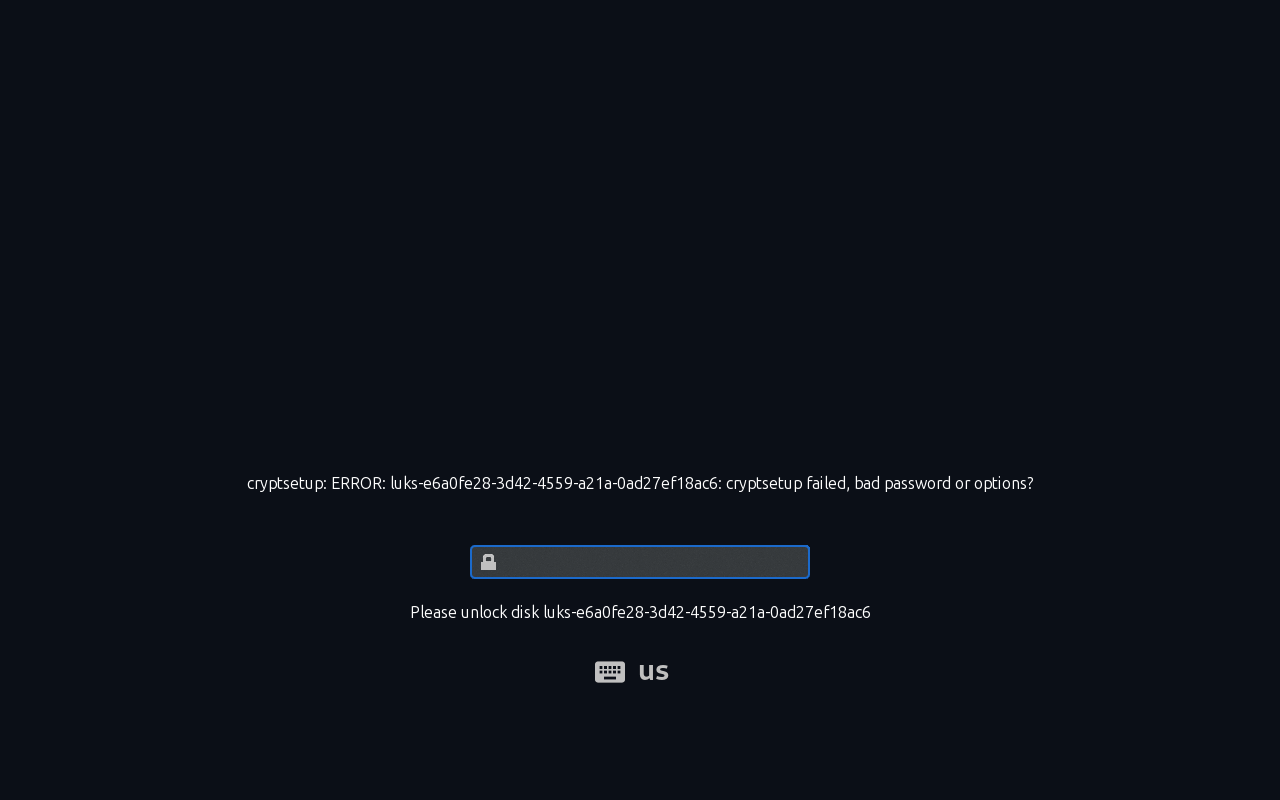
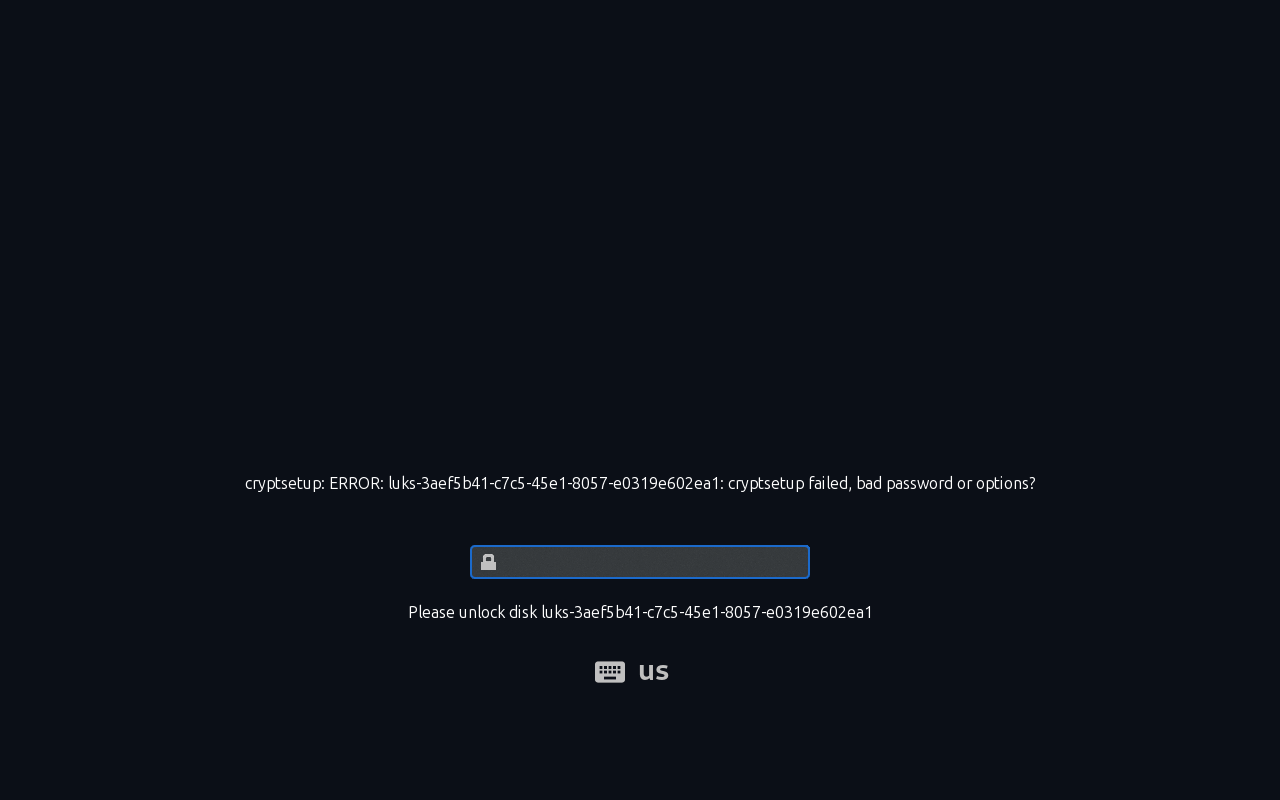
docs: LUKS2 on rc8 verified - every VM gate now sits on one artifact

Changed region(s): [[0.1875, 0.5938, 0.8125, 0.625], [0.3125, 0.75, 0.6875, 0.7812]]

diff --git a/docs/AUTONOMOUS_QUEUE.md b/docs/AUTONOMOUS_QUEUE.md
@@ -47,7 +47,7 @@ booted-artifact evidence missing).
 | Q-49 | Full install and boot at the documented 4 GB minimum | installer pages + installed boot | **VM-VERIFIED 2026-11-10** - `HSCL1-qa-green` (`5d4ea47e…`), 4 GB: centred installer with the full version string, erase plan ESP+ext4, confirmation dialog, "All done", 27 min without an OOM kill; the disk then booted with `iso=none`, logged in, and `hscl privacy status` shows `persistent disk swap: active (expected on an installed system)` |
 | Q-50 | LUKS install panicked in the guest at 6 GB | kernel console text + retry | **RESOLVED as a RAM requirement 2026-11-10** - the 6 GB run panicked (`Attempted to kill init! exitcode=0x0000000b`), the identical scenario at **8 GB** finished with "All done" and the disk unlocked (`artifacts/install-luks-final2`, `artifacts/boot-luks-final`). It is intermittent (6 GB had worked on the previous candidate), so the documentation now says: give an encrypted install 8 GB; the unencrypted one is verified at 4 GB. Added `scripts/dev/detect_panic.py` plus a `panic_suspects` key in the harness summary so a dead guest is never mistaken for a quiet run. |
 | Q-51 | Test-order dependence in the WSL-backed unit tests | reproduce with a seed, then fix the pollution | **CAUSE FOUND AND HANDLED 2026-11-10** - the failures were not order-dependent after all: WSL writes its own launcher errors as **UTF-16** into the stdout pipe ("Ein Verbindungsversuch ist fehlgeschlagen … github.com/microsoft/WSL/issues"), so the test saw NUL-separated mojibake instead of the script output and asserted on it. `tests/shellutil.py` now normalises that text (UTF-16 detection), skips with a reason when a launcher marker is present - even at returncode 0, because the launcher can report success while printing its failure - and still fails real script failures; 8 unit tests pin it. The gate keeps `-p no:randomly` so a rerun reproduces the same order. |
-| Q-59 | Install, LUKS and QA gates on the newest artifact | verify-image gate + install + LUKS2 + QA + lab, all on one artifact (done) | **DONE 2026-11-11 on rc6 (`4a0d48a3…`)** - after weeks of evidence spread across candidates, one artifact now carries every VM gate: `verify-image` all checks passed, LUKS2 install at 8 GB through `/usr/bin/hscl-calamares` with unlock (`artifacts/install-luks-rc6`, `artifacts/boot-luks-rc6`, `LUKS volumes open: 1`), `qa_report.py` exit 0 (`artifacts/qa/report-rc6.txt`), and the Security Lab chain with `INSTALL=0`/`COMMIT=0`/`RUN=0` and Nmap 7.991 (`artifacts/lab-rc6`). The two plain 4 GB installs still cite rc3 because that is when they ran; the installer start fault remains open as Q-61. |
+| Q-59 | Install, LUKS and QA gates on the newest artifact | verify-image gate + install + LUKS2 + QA + lab, all on one artifact (done) | **DONE 2026-11-11 on rc8 (`0ea3290c…`)** - one artifact carries `verify-image`, the LUKS2 install at 8 GB through `/usr/bin/hscl-calamares` with unlock (`LUKS volumes open: 1`), `qa_report.py` exit 0 and the Control Center captures, plus rc6's Security Lab chain for the unchanged `hscl lab` bits. The installer's intermittent SIGKILL remains open as Q-61; it is mitigated, not fixed. |
 | Q-44 | Installed SDDM login screen shows the KDE gear avatar | offline inspection of the installed disk | **EXPLAINED (2026-11-10), cosmetic only** — the theme is correct: `/etc/sddm.conf.d/30-hscl1.conf` sets `Current=hscl1`, the theme ships a 1920×1080 `background.png` that is **bit-identical** to `wallpapers/HSCL1Midnight/contents/images/1920x1080.png` (the desktop's hexagon/code texture comes from the rain wallpaper plugin, not from the wallpaper file), and `/home/hscl1t/.face` + `.face.icon` exist with the HSCL1 mark. The greeter still shows the KDE default because the home directory is `drwxr-x---` (the `sddm` user cannot traverse it) and `/var/lib/AccountsService/users/` has no entry for the user yet. Fix option (roadmap): seed an AccountsService `Icon=` entry at install time. |
 | Q-45 | Welcome Center opens on the generic KDE page | VM screenshot | **MEASURED 2026-11-11, still open** - `artifacts/boot-luks-rc3/w0-desktop.png` shows the Welcome Center opening on the built-in "Welcome to the HSCL1 operating system running KDE Plasma!" page with the green Konqi mascot, not on the HSCL1 page. `plasma-welcome` loads its built-in pages first and appends `/usr/share/plasma/plasma-welcome/extra-pages/*.qml` (our renamed `01-Kubuntu.qml`) afterwards - the binary strings name `distroPagesDir`/`distroPages` and expose no priority key. Two candidate fixes, neither verified yet: pre-seed the page the app remembers, or stop autostarting the KDE tour and surface the HSCL1 page from the Control Center. Not claimed fixed. |
 | Q-46 | Installer started from the desktop icon is SIGKILLed | journal evidence + killer identification (partly done) | **PARTIAL 2026-11-11** - the trigger found on 2026-11-10 is fixed and was verified: the welcome module's `internet` HTTPS probe ran inside `ModuleManager::checkRequirements()`, was removed from `welcome.conf` (image gate + `tests/unit/test_installer_no_network_probe.py`), and `HSCL1-installer-fix` then opened the installer from the desktop icon in three separate 4 GB boots. **But the installer still dies by SIGKILL 2-3 s after starting in roughly one start in six to twelve**, with no core dump, on every candidate since - that second, independent fault is tracked as **Q-61**, and `/usr/bin/hscl-calamares` restarts the wizard inside its first minute to keep an install possible. So: this row's original symptom is gone, the class of failure is not. |

diff --git a/docs/CLAIMS.md b/docs/CLAIMS.md
@@ -27,7 +27,7 @@ Current source corrections (2026-11-08): HCSEASYMATH has six API/CLI operations 
 | Main ISO boots to the HCS desktop (UEFI/BIOS, QEMU+WHPX) | VM-VERIFIED | screenshots in `artifacts/` (not in git), BUILD_LOG |
 | Installer completes a full install twice in a row | **VM-VERIFIED 2026-11-11** (`HSCL1-rc3`, `f1202eb0…`, 4 GB, UEFI): both runs reached "All done. HSCL1 0.1.5-alpha.0" and wrote ~9.5 GB, no KCrash in either. Both were started with the **upstream** launcher from a terminal; the software-rendering wrapper (`/usr/bin/hscl-calamares`) is covered by the image gate, a unit test and the LUKS2 run, not by these two. Two clean runs are evidence, not proof of impossibility. | `artifacts/install-rc3/t13-before-finish.png`, `artifacts/install-rc3b/t13-before-finish.png` |
 | Installer installs to a 40 GiB virtual disk and the installed system boots and logs in | VM-VERIFIED on the current artifact 2026-11-11 (`HSCL1-rc3`, `f1202eb0…`, **4 GB**: "All done. HSCL1 0.1.5-alpha.0", then the disk boots and logs in to the HSCL1 desktop; a second install from the same ISO is the crash counter-check); earlier candidates `f8ae5c52…` (4 GB), `e723940b…` (6 GB) and `5d4ea47e…` (4 GB) behaved the same | `artifacts/install-rc3/t13-before-finish.png`, `artifacts/boot-installed-rc3/w3-security-status.png`; earlier `artifacts/install-term-6g` ("All done", 9.69 GB written) and `artifacts/boot-installed-term` (SDDM login, desktop, `hscl doctor` 6 passed / 0 failed / 1 skipped); BUILD_LOG "First complete installation" |
-| LUKS2 install + unlock, wrong passphrase refused | **VM-VERIFIED on the current artifact 2026-11-11** (`HSCL1-rc6`, `4a0d48a3…`, **8 GB**, UEFI, install through `/usr/bin/hscl-calamares` with the restart and single-instance retry): plan ESP 300 MiB + `hscl1_boot` 4 GiB + `hscl1_root` 35.71 GiB LUKS2, "All done" after 1992 s; booting the disk, the wrong passphrase is refused, the right one reaches SDDM and the desktop with `LUKS volumes open: 1`. Earlier: `f1202eb0…` (rc3, 8 GB) completed the same way, `e723940b…` (6 GB) and `3e8ebce1…` behaved the same | `artifacts/install-luks-rc6/l03-passphrase.png`, `l09-before-finish.png`, `artifacts/boot-luks-rc6/unlock-after-wrong.png`, `unlock-after-correct.png`, `w3-security-status.png`; BUILD_LOG "LUKS2 on rc6" |
+| LUKS2 install + unlock, wrong passphrase refused | **VM-VERIFIED on the current artifact 2026-11-11** (`HSCL1-rc8`, `0ea3290c...`, **8 GB**, UEFI, install through `/usr/bin/hscl-calamares`): plan ESP 300 MiB + `hscl1_boot` 4 GiB + `hscl1_root` 35.71 GiB LUKS2, "All done" after 1834 s; booting the disk, the wrong passphrase is refused, the right one reaches SDDM and the desktop with `LUKS volumes open: 1`. Earlier: `4a0d48a3...` (rc6), `f1202eb0...` (rc3), `e723940b...` and `3e8ebce1...` behaved the same | `artifacts/install-luks-rc8/l03-passphrase.png`, `l09-before-finish.png`, `artifacts/boot-luks-rc8/unlock-after-wrong.png`, `unlock-after-correct.png`, `w3-security-status.png`; BUILD_LOG "LUKS2 on rc8" |
 | Machine-readable in-guest report (`hscl.qa` port → `qa_report.py`) | **VM-VERIFIED on the current artifact 2026-11-11** (`HSCL1-rc8`, `0ea3290c...`, 4 GB VM); earlier on `4a0d48a3...`, `0ed86405...`, `5d4ea47e...` and the published `0.1.5-alpha.0` | `artifacts/qa/report-rc8.txt` -> `qa_report.py` exit 0 (9 ok, 1 info about Secure Boot); earlier `artifacts/qa/report-rc6.txt` and `artifacts/qa/hscl1-report-green.txt`; BUILD_LOG "rc8" |
 | Workshop daemon starts through udev when the hypervisor provides the `hscl.api` port, answers `status`, accepts hook-pushed files | VM-VERIFIED | `artifacts/e2e1/report.json`, `artifacts/e2e2` run log in BUILD_LOG |
 | Respin: squashing the live state | VM-VERIFIED (373 s, first run) | BUILD_LOG |

diff --git a/docs/BUILD_LOG.md b/docs/BUILD_LOG.md
@@ -2164,6 +2164,25 @@ Both became the showcase images `04_control_center_overview.png` and `20_control
 LUKS2 evidence recorded for rc6 still applies to the code in this image; no install was re-run for this delta
 (QML, i18n, allowlist, docs).
 
+### LUKS2 on rc8: every VM gate now on one artifact (2026-11-11)
+
+| Item | Value |
+|---|---|
+| ISO | `HSCL1-rc8-amd64.iso`, SHA-256 `0ea3290c…` |
+| VM | UEFI + WHPX, **8 GB**, 4 vCPU, 40 GB qcow2 (`artifacts/vdisks/luks-rc8.qcow2`) |
+| Launcher | `/usr/bin/hscl-calamares` (software rendering, `KCRASH_DUMP_ONLY=1`, restart, 87 retry) |
+| Install | "All done. HSCL1 0.1.5-alpha.0" after 1834 s, `disk_idle_after_s` 184, `vm_exited: true` |
+| Boot | `iso=none`, 8 GB, wrong passphrase first, then the real one; 589 s to the checks |
+
+`artifacts/boot-luks-rc8`: `unlock-prompt.png`, `unlock-after-wrong.png` (refused, prompt returns),
+`unlock-after-correct.png`, `login-screen.png`, `w0-desktop.png`, and `w3-security-status.png` with
+`AppArmor enabled: yes`, `UFW enabled: yes`, `Secure Boot: unknown (no SecureBoot variable; Secure Boot off)`,
+**`LUKS volumes open: 1`**, `Forbidden APT repos: none`, `root filesystem: ext4`, zram active, core dumps disabled.
+
+With this run rc8 carries `verify-image`, the LUKS2 install + unlock, the QA report (exit 0) and the Control Center
+captures. The Security Lab chain was last verified on rc6 (`4a0d48a3…`); rc8 changes only the Control Center, so
+that evidence still describes the same image content for `hscl lab`.
+
 ### Version state (2026-11-10)
 
 `VERSION` in the tree is **0.1.5-alpha.0** (commit `014b71e`, authored 2026-11-10 22:29, touching VERSION,
